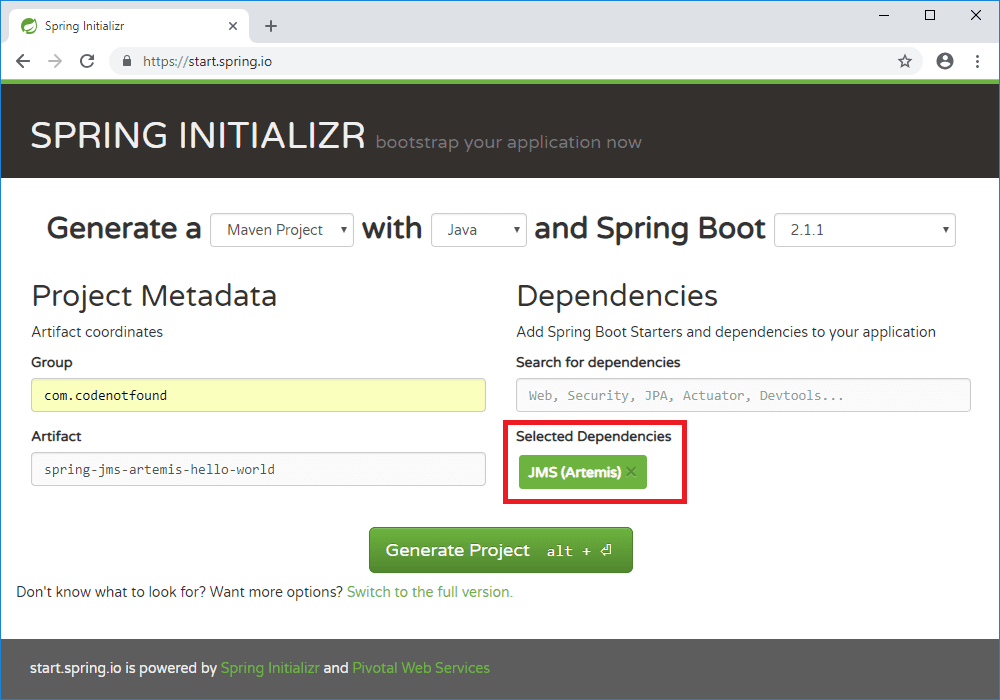
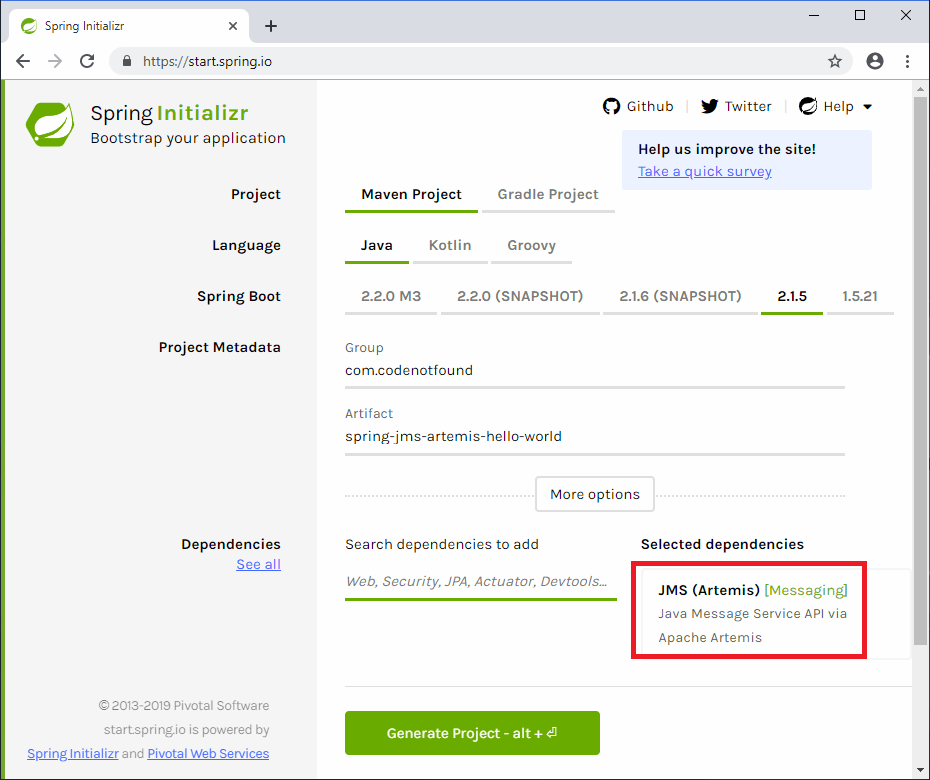
update post

diff --git a/_posts/spring-jms/2018-12-22-spring-jms-artemis-example.md b/_posts/spring-jms/2018-12-22-spring-jms-artemis-example.md
@@ -3,7 +3,7 @@ title: "Spring JMS Artemis Example"
 permalink: /spring-jms-artemis-example.html
 excerpt: "A detailed step-by-step tutorial on how to connect to Apache ActiveMQ Artemis using Spring JMS and Spring Boot."
 date: 2018-12-22
-last_modified_at: 2018-12-24
+last_modified_at: 2019-05-30
 header:
   teaser: "assets/images/spring-jms/spring-jms-artemis.png"
 categories: [Spring JMS]
@@ -13,7 +13,7 @@ published: true
 
 <img src="{{ site.url }}/assets/images/spring-jms/spring-jms-artemis.png" alt="spring jms artemis" class="align-right title-image">
 
-In this post I'm going to show you how to connect to [ActiveMQ Artemis](https://activemq.apache.org/artemis/){:target="_blank"} using [Spring JMS](https://docs.spring.io/spring/docs/5.1.3.RELEASE/spring-framework-reference/integration.html#jms){:target="_blank"}.
+In this post I'm going to show you how to connect to [ActiveMQ Artemis](https://activemq.apache.org/artemis/){:target="_blank"} using [Spring JMS](https://docs.spring.io/spring/docs/5.1.7.RELEASE/spring-framework-reference/integration.html#jms){:target="_blank"}.
 
 In fact:
 
@@ -42,7 +42,7 @@ We will use the following tools/frameworks:
 * Spring JMS 5.1
 * Spring Boot 2.1
 * Artemis 2.6
-* Maven 3.5
+* Maven 3.6
 
 Our project has the following directory structure:
 
@@ -60,7 +60,7 @@ Click <var>Generate Project</var> to generate and download the Spring Boot proje
 
 To avoid having to manage the version compatibility of the different Spring dependencies, we will inherit the defaults from the `spring-boot-starter-parent` parent POM.
 
-> You can find back the exact dependency versions in Appendix F of the reference documentation. For Spring Boot 2.1.1 the [Artemis dependency is version 2.6.3](https://docs.spring.io/spring-boot/docs/2.1.1.RELEASE/reference/html/appendix-dependency-versions.html#appendix-dependency-versions){:target="_blank"}.
+> You can find back the exact dependency versions in Appendix F of the reference documentation. For Spring Boot 2.1.5 the [Artemis dependency is version 2.6.6](https://docs.spring.io/spring-boot/docs/2.1.5.RELEASE/reference/html/appendix-dependency-versions.html#appendix-dependency-versions){:target="_blank"}.
 
 The generated project contains [Spring Boot Starters](https://github.com/spring-projects/spring-boot/tree/master/spring-boot-project/spring-boot-starters){:target="_blank"} that manage the different Spring dependencies.
 
@@ -70,13 +70,14 @@ The `spring-boot-starter-test` includes the dependencies for testing Spring Boot
 
 We also add a dependency on `artemis-junit`. It provides tools that allow us to have access to an embedded Artemis server when running our unit test.
 
-In the plugins section, you'll find the [Spring Boot Maven Plugin](https://docs.spring.io/spring-boot/docs/2.1.1.RELEASE/reference/html/build-tool-plugins-maven-plugin.html){:target="_blank"}. `spring-boot-maven-plugin` allows us to build a single, runnable "uber-jar". This is a convenient way to execute and transport code.
+In the plugins section, you'll find the [Spring Boot Maven Plugin](https://docs.spring.io/spring-boot/docs/2.1.5.RELEASE/reference/html/build-tool-plugins-maven-plugin.html){:target="_blank"}. `spring-boot-maven-plugin` allows us to build a single, runnable "uber-jar". This is a convenient way to execute and transport code.
 
 Also, the plugin allows you to start the example via a Maven command.
 
 {% highlight xml %}
 <?xml version="1.0" encoding="UTF-8"?>
-<project xmlns="http://maven.apache.org/POM/4.0.0" xmlns:xsi="http://www.w3.org/2001/XMLSchema-instance"
+<project xmlns="http://maven.apache.org/POM/4.0.0"
+  xmlns:xsi="http://www.w3.org/2001/XMLSchema-instance"
   xsi:schemaLocation="http://maven.apache.org/POM/4.0.0 http://maven.apache.org/xsd/maven-4.0.0.xsd">
   <modelVersion>4.0.0</modelVersion>
 
@@ -91,12 +92,12 @@ Also, the plugin allows you to start the example via a Maven command.
   <parent>
     <groupId>org.springframework.boot</groupId>
     <artifactId>spring-boot-starter-parent</artifactId>
-    <version>2.1.1.RELEASE</version>
+    <version>2.1.5.RELEASE</version>
     <relativePath /><!-- lookup parent from repository -->
   </parent>
 
   <properties>
-    <java.version>1.8</java.version>
+    <java.version>11</java.version>
   </properties>
 
   <dependencies>
@@ -134,7 +135,9 @@ The project is for a large part identical to a previous [Spring JMS ActiveMQ exa
 
 We still use an `ActiveMQConnectionFactory` but this time it is part of the `org.apache.activemq.artemis.jms.client` package.
 
-We pass a <var>brokerUrl</var> to the constructor as shown below. The value is specified in the <var>application.yml</var> properties file located under <var>src/main/resources</var>.
+We pass a <var>brokerUrl</var> to the constructor as shown below.
+
+The value is specified in the <var>application.yml</var> properties file located under <var>src/main/resources</var>.
 
 {% highlight java %}
 package com.codenotfound.jms;
@@ -271,7 +274,7 @@ public class SpringJmsApplicationTest {
 
 Let's run the unit test to check if everything is working.
 
-Open a command prompt in the root directory and execute following Maven command.
+Open a command prompt in the root directory and execute the following Maven command.
 
 {% highlight plaintext %}
 mvn test
@@ -286,27 +289,27 @@ In the output logs, we can see that the <var>Hello Spring JMS ActiveMQ!</var> gr
 \\/  ___)| |_)| | | | | || (_| |  ) ) ) )
 '  |____| .__|_| |_|_| |_\__, | / / / /
 =========|_|==============|___/=/_/_/_/
-:: Spring Boot ::        (v2.1.1.RELEASE)
+:: Spring Boot ::        (v2.1.5.RELEASE)
 
-2018-12-27 15:37:38.629  INFO 7548 --- [           main] c.codenotfound.SpringJmsApplicationTest  : Starting SpringJmsApplicationTest on DESKTOP-2RB3C1U with PID 7548 (started by Codenotfound in C:\Users\Codenotfound\repos\spring-jms\spring-jms-artemis-hello-world)
-2018-12-27 15:37:38.629  INFO 7548 --- [           main] c.codenotfound.SpringJmsApplicationTest  : No active profile set, falling back to default profiles: default
-2018-12-27 15:37:39.926  INFO 7548 --- [           main] c.codenotfound.SpringJmsApplicationTest  : Started SpringJmsApplicationTest in 1.688 seconds (JVM running for 2.973)
-2018-12-27 15:37:39.942  INFO 7548 --- [           main] o.a.a.artemis.junit.EmbeddedJMSResource  : Starting EmbeddedJMSResource: embedded-jms-server
-2018-12-27 15:37:39.942  INFO 7548 --- [           main] o.a.a.artemis.junit.EmbeddedJMSResource  : Starting EmbeddedJMSResource: embedded-jms-server
-2018-12-27 15:37:40.035  INFO 7548 --- [           main] org.apache.activemq.artemis.core.server  : AMQ221000: live Message Broker is starting with configuration Broker Configuration (clustered=false,journalDirectory=data/journal,bindingsDirectory=data/bindings,largeMessagesDirectory=data/largemessages,pagingDirectory=data/paging)
-2018-12-27 15:37:40.067  INFO 7548 --- [           main] org.apache.activemq.artemis.core.server  : AMQ221045: libaio is not available, switching the configuration into NIO
-2018-12-27 15:37:40.082  INFO 7548 --- [           main] org.apache.activemq.artemis.core.server  : AMQ221057: Global Max Size is being adjusted to 1/2 of the JVM max size (-Xmx). being defined as 948,961,280
-2018-12-27 15:37:40.113  INFO 7548 --- [           main] org.apache.activemq.artemis.core.server  : AMQ221043: Protocol module found: [artemis-server]. Adding protocol support for: CORE
-2018-12-27 15:37:40.176  INFO 7548 --- [           main] org.apache.activemq.artemis.core.server  : AMQ221007: Server is now live
-2018-12-27 15:37:40.192  INFO 7548 --- [           main] org.apache.activemq.artemis.core.server  : AMQ221001: Apache ActiveMQ Artemis Message Broker version 2.6.3 [embedded-jms-server, nodeID=f6419f7e-09e4-11e9-b444-bc5ff48510d9]
-2018-12-27 15:37:40.379  INFO 7548 --- [           main] com.codenotfound.jms.Sender              : sending message='Hello Spring JMS ActiveMQ!'
-2018-12-27 15:37:40.723  WARN 7548 --- [mpl$5@25cc7470)] org.apache.activemq.artemis.core.server  : AMQ222165: No Dead Letter Address configured for queue helloworld.q in AddressSettings
-2018-12-27 15:37:40.723  WARN 7548 --- [mpl$5@25cc7470)] org.apache.activemq.artemis.core.server  : AMQ222166: No Expiry Address configured for queue helloworld.q in AddressSettings
-2018-12-27 15:37:44.988  INFO 7548 --- [enerContainer-4] com.codenotfound.jms.Receiver            : received message='Hello Spring JMS ActiveMQ!'
-2018-12-27 15:37:45.035  INFO 7548 --- [           main] o.a.a.artemis.junit.EmbeddedJMSResource  : Stopping EmbeddedJMSResource: embedded-jms-server
-2018-12-27 15:37:45.035  INFO 7548 --- [           main] o.a.a.artemis.junit.EmbeddedJMSResource  : Stopping EmbeddedJMSResource: embedded-jms-server
-2018-12-27 15:37:45.066  INFO 7548 --- [           main] org.apache.activemq.artemis.core.server  : AMQ221002: Apache ActiveMQ Artemis Message Broker version 2.6.3 [f6419f7e-09e4-11e9-b444-bc5ff48510d9] stopped, uptime 5.046 seconds
-[INFO] Tests run: 1, Failures: 0, Errors: 0, Skipped: 0, Time elapsed: 7.874 s - in com.codenotfound.SpringJmsApplicationTest
+2019-05-30 10:37:50.255  INFO 9420 --- [           main] c.codenotfound.SpringJmsApplicationTest  : Starting SpringJmsApplicationTest on DESKTOP-2RB3C1U with PID 9420 (started by Codenotfound in C:\Users\Codenotfound\repos\spring-jms\spring-jms-artemis-hello-world)
+2019-05-30 10:37:50.256  INFO 9420 --- [           main] c.codenotfound.SpringJmsApplicationTest  : No active profile set, falling back to default profiles: default
+2019-05-30 10:37:51.677  INFO 9420 --- [           main] c.codenotfound.SpringJmsApplicationTest  : Started SpringJmsApplicationTest in 1.777 seconds (JVM running for 2.949)
+2019-05-30 10:37:51.689  INFO 9420 --- [           main] o.a.a.artemis.junit.EmbeddedJMSResource  : Starting EmbeddedJMSResource: embedded-jms-server
+2019-05-30 10:37:51.690  INFO 9420 --- [           main] o.a.a.artemis.junit.EmbeddedJMSResource  : Starting EmbeddedJMSResource: embedded-jms-server
+2019-05-30 10:37:51.825  INFO 9420 --- [           main] org.apache.activemq.artemis.core.server  : AMQ221000: live Message Broker is starting with configuration Broker Configuration (clustered=false,journalDirectory=data/journal,bindingsDirectory=data/bindings,largeMessagesDirectory=data/largemessages,pagingDirectory=data/paging)
+2019-05-30 10:37:51.838  INFO 9420 --- [           main] org.apache.activemq.artemis.core.server  : AMQ221045: libaio is not available, switching the configuration into NIO
+2019-05-30 10:37:51.853  INFO 9420 --- [           main] org.apache.activemq.artemis.core.server  : AMQ221057: Global Max Size is being adjusted to 1/2 of the JVM max size (-Xmx). being defined as 1.067.450.368
+2019-05-30 10:37:51.871  INFO 9420 --- [           main] org.apache.activemq.artemis.core.server  : AMQ221043: Protocol module found: [artemis-server]. Adding protocol support for: CORE
+2019-05-30 10:37:51.934  INFO 9420 --- [           main] org.apache.activemq.artemis.core.server  : AMQ221007: Server is now live
+2019-05-30 10:37:51.935  INFO 9420 --- [           main] org.apache.activemq.artemis.core.server  : AMQ221001: Apache ActiveMQ Artemis Message Broker version 2.6.4 [embedded-jms-server, nodeID=364c2807-82b6-11e9-83ff-bc5ff48510d9]
+2019-05-30 10:37:52.266  INFO 9420 --- [           main] com.codenotfound.jms.Sender              : sending message='Hello Spring JMS ActiveMQ!'
+2019-05-30 10:37:52.501  WARN 9420 --- [mpl$5@2373ad99)] org.apache.activemq.artemis.core.server  : AMQ222165: No Dead Letter Address configured for queue helloworld.q in AddressSettings
+2019-05-30 10:37:52.502  WARN 9420 --- [mpl$5@2373ad99)] org.apache.activemq.artemis.core.server  : AMQ222166: No Expiry Address configured for queue helloworld.q in AddressSettings
+2019-05-30 10:37:56.709  INFO 9420 --- [enerContainer-4] com.codenotfound.jms.Receiver            : received message='Hello Spring JMS ActiveMQ!'
+2019-05-30 10:37:56.750  INFO 9420 --- [           main] o.a.a.artemis.junit.EmbeddedJMSResource  : Stopping EmbeddedJMSResource: embedded-jms-server
+2019-05-30 10:37:56.751  INFO 9420 --- [           main] o.a.a.artemis.junit.EmbeddedJMSResource  : Stopping EmbeddedJMSResource: embedded-jms-server
+2019-05-30 10:37:56.785  INFO 9420 --- [           main] org.apache.activemq.artemis.core.server  : AMQ221002: Apache ActiveMQ Artemis Message Broker version 2.6.4 [364c2807-82b6-11e9-83ff-bc5ff48510d9] stopped, uptime 4.974 seconds
+[INFO] Tests run: 1, Failures: 0, Errors: 0, Skipped: 0, Time elapsed: 7.816 s - in com.codenotfound.SpringJmsApplicationTest
 [INFO]
 [INFO] Results:
 [INFO]
@@ -315,8 +318,8 @@ In the output logs, we can see that the <var>Hello Spring JMS ActiveMQ!</var> gr
 [INFO] ------------------------------------------------------------------------
 [INFO] BUILD SUCCESS
 [INFO] ------------------------------------------------------------------------
-[INFO] Total time: 11.223 s
-[INFO] Finished at: 2018-12-27T15:37:45+01:00
+[INFO] Total time:  12.435 s
+[INFO] Finished at: 2019-05-30T10:37:57+02:00
 [INFO] ------------------------------------------------------------------------
 {% endhighlight %}
 
